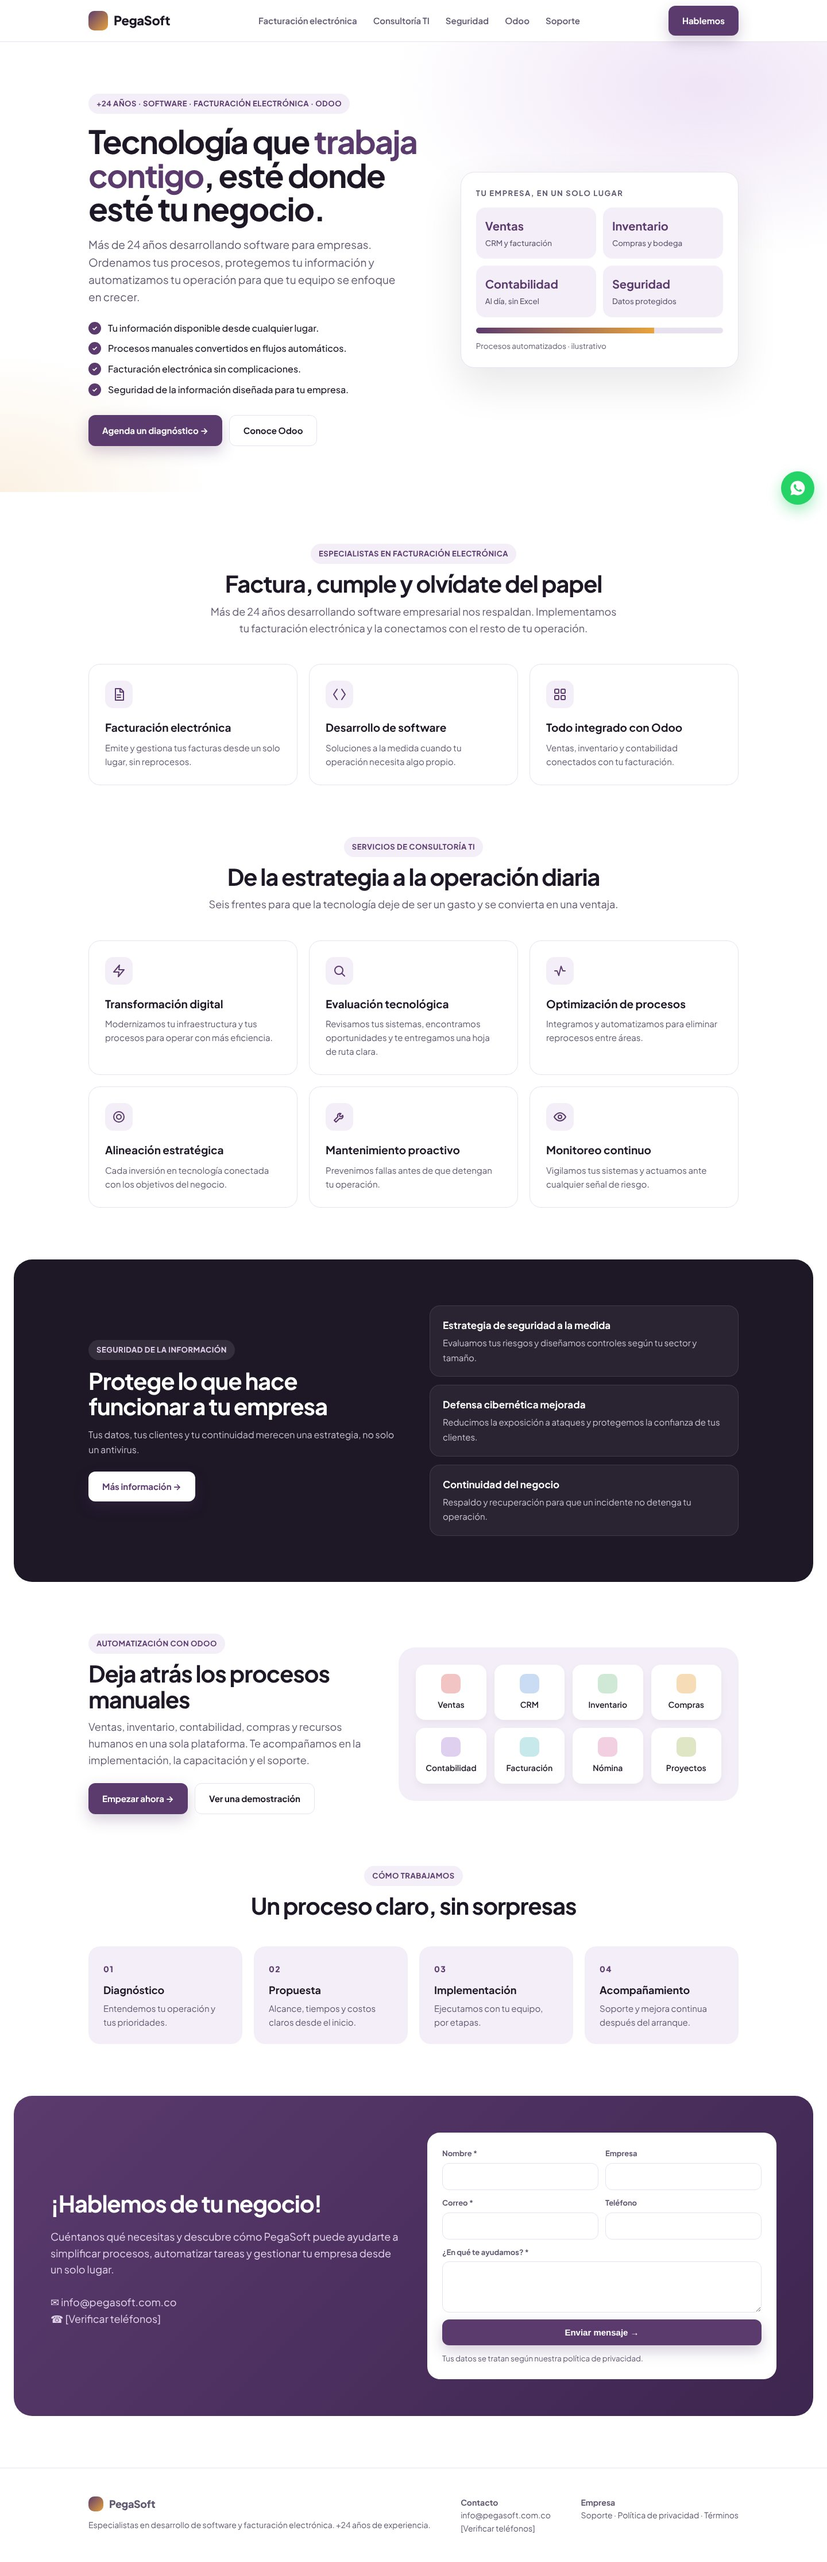
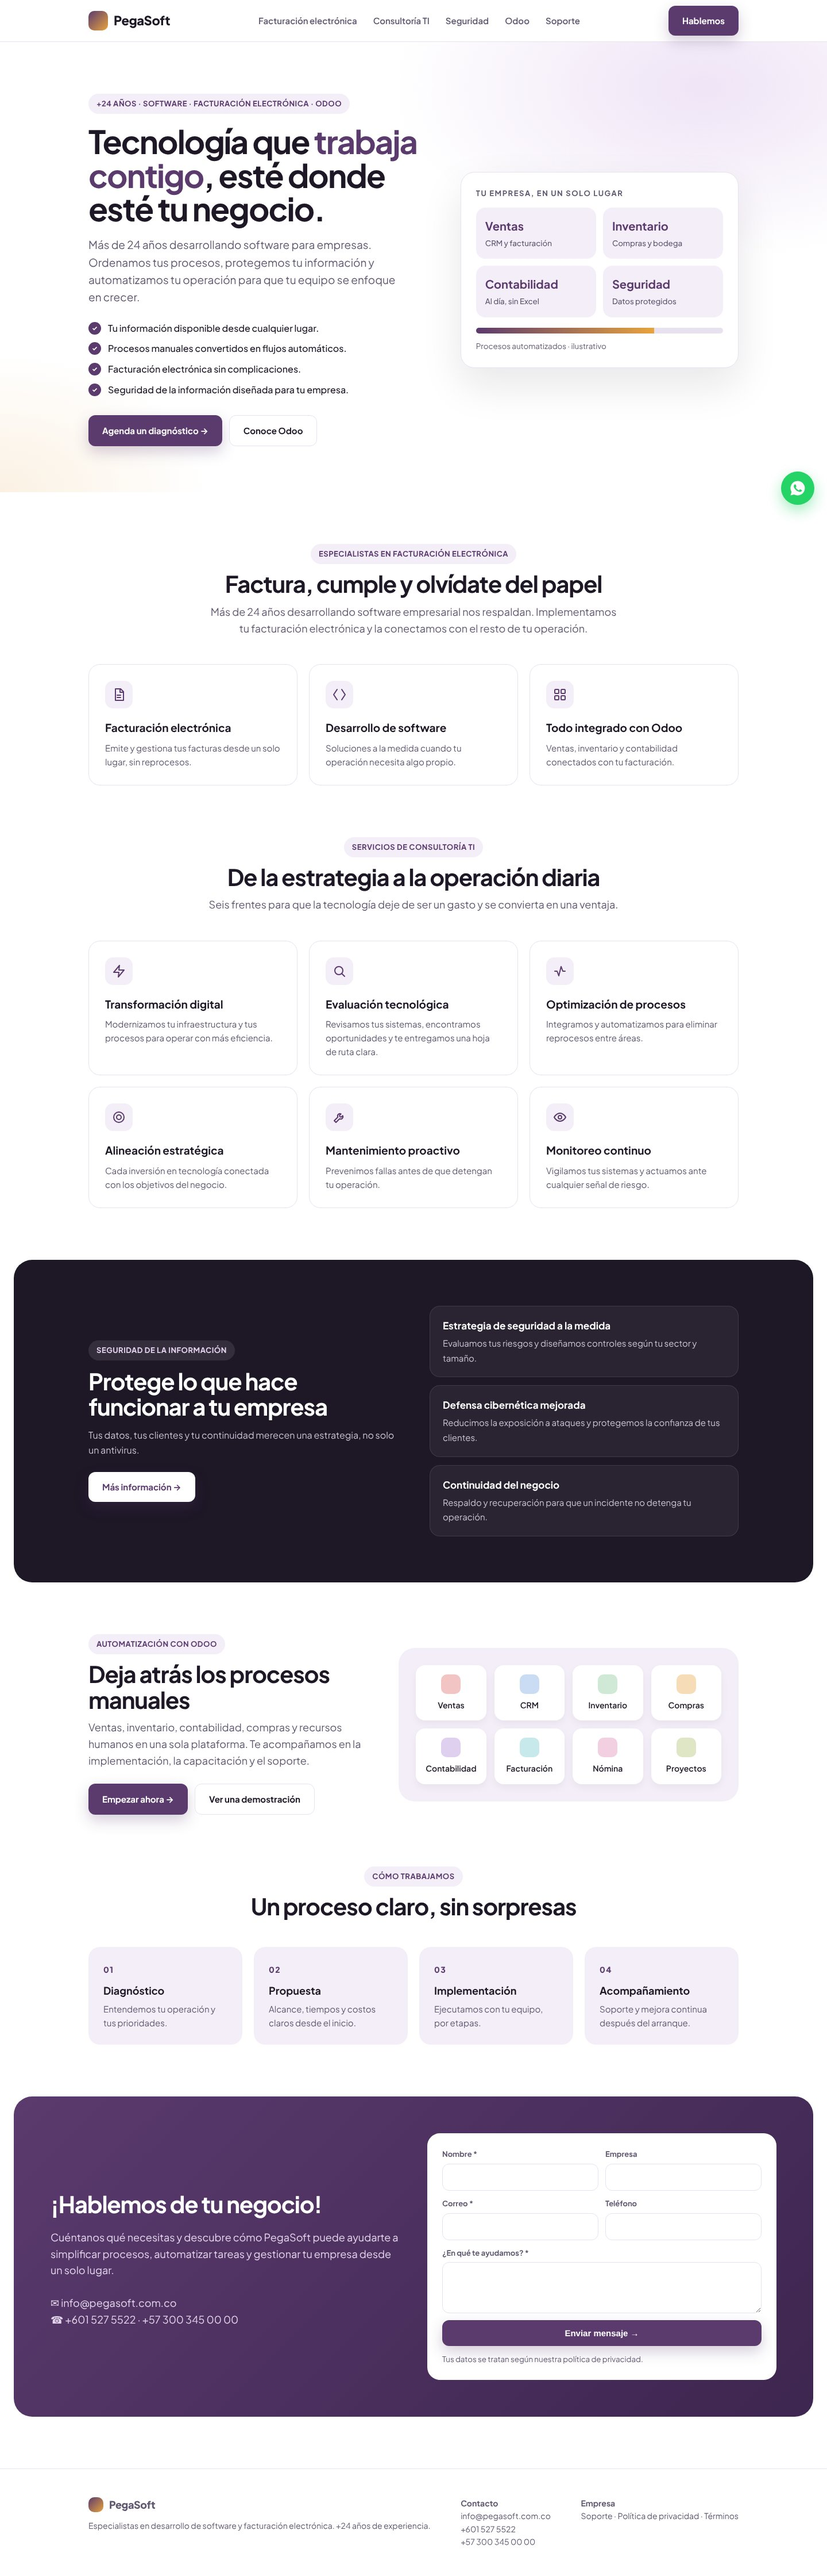
PegaSoft: teléfonos reales y enlaces de WhatsApp
Claude-Session: https://claude.ai/code/session_01Aq6dT6XBRFQhVkyXdY5FfA

diff --git a/pegasoft/index.html b/pegasoft/index.html
@@ -130,7 +130,7 @@ footer .wrap{display:flex;justify-content:space-between;gap:24px;flex-wrap:wrap}
 
 <div class="final" id="contacto" style="text-align:left;display:grid;grid-template-columns:1fr 1fr;gap:48px;align-items:center">
 <div><h2>¡Hablemos de tu negocio!</h2><p>Cuéntanos qué necesitas y descubre cómo PegaSoft puede ayudarte a simplificar procesos, automatizar tareas y gestionar tu empresa desde un solo lugar.</p>
-<p style="margin:0">✉ info@pegasoft.com.co<br>☎ [Verificar teléfonos]</p></div>
+<p style="margin:0">✉ info@pegasoft.com.co<br>☎ <a href="tel:+576015275522">+601 527 5522</a> · <a href="https://wa.me/573003450000">+57 300 345 00 00</a></p></div>
 <form style="background:#fff;border-radius:22px;padding:26px;display:grid;gap:12px;color:var(--ink)" onsubmit="return false">
 <style>.f{display:grid;gap:6px;font-size:13px;font-weight:700;color:var(--mut)}.f input,.f textarea{font:inherit;font-weight:500;color:var(--ink);border:1.5px solid var(--line);border-radius:12px;padding:12px 14px}.f input:focus,.f textarea:focus{outline:none;border-color:var(--p)}.two{display:grid;grid-template-columns:1fr 1fr;gap:12px}</style>
 <div class="two"><label class="f">Nombre *<input required></label><label class="f">Empresa<input></label></div>
@@ -140,6 +140,6 @@ footer .wrap{display:flex;justify-content:space-between;gap:24px;flex-wrap:wrap}
 <small style="color:var(--mut)">Tus datos se tratan según nuestra política de privacidad.</small></form></div>
 
 <footer id="soporte"><div class="wrap"><div><b class="logo" style="font-size:18px"><i style="width:26px;height:26px"></i>PegaSoft</b><p style="margin-top:10px">Especialistas en desarrollo de software y facturación electrónica. +24 años de experiencia.</p></div>
-<div><b>Contacto</b><p>info@pegasoft.com.co<br>[Verificar teléfonos]</p></div><div><b>Empresa</b><p>Soporte · Política de privacidad · Términos</p></div></div></footer>
-<a class="wa" href="#" aria-label="WhatsApp"><svg viewBox="0 0 24 24"><path d="M12 2a10 10 0 0 0-8.6 15.1L2 22l5-1.3A10 10 0 1 0 12 2zm5.4 13.9c-.2.6-1.3 1.2-1.8 1.2-.5.1-1 .2-3.3-.7-2.8-1.1-4.5-4-4.7-4.2-.1-.2-1.1-1.5-1.1-2.9s.7-2 1-2.3c.2-.3.5-.3.7-.3h.5c.2 0 .4 0 .6.5l.8 2c.1.2.1.4 0 .5l-.4.6-.3.4c-.1.1-.3.3-.1.6.2.3.8 1.3 1.7 2.1 1.2 1 2.1 1.4 2.4 1.5.3.1.5.1.6-.1l.9-1.1c.2-.3.4-.2.6-.1l1.9.9c.3.1.5.2.5.3.1.2.1.8-.1 1.3z"/></svg></a>
+<div><b>Contacto</b><p><a href="mailto:info@pegasoft.com.co">info@pegasoft.com.co</a><br><a href="tel:+576015275522">+601 527 5522</a><br><a href="https://wa.me/573003450000">+57 300 345 00 00</a></p></div><div><b>Empresa</b><p>Soporte · Política de privacidad · Términos</p></div></div></footer>
+<a class="wa" href="https://wa.me/573003450000" target="_blank" rel="noopener" aria-label="WhatsApp"><svg viewBox="0 0 24 24"><path d="M12 2a10 10 0 0 0-8.6 15.1L2 22l5-1.3A10 10 0 1 0 12 2zm5.4 13.9c-.2.6-1.3 1.2-1.8 1.2-.5.1-1 .2-3.3-.7-2.8-1.1-4.5-4-4.7-4.2-.1-.2-1.1-1.5-1.1-2.9s.7-2 1-2.3c.2-.3.5-.3.7-.3h.5c.2 0 .4 0 .6.5l.8 2c.1.2.1.4 0 .5l-.4.6-.3.4c-.1.1-.3.3-.1.6.2.3.8 1.3 1.7 2.1 1.2 1 2.1 1.4 2.4 1.5.3.1.5.1.6-.1l.9-1.1c.2-.3.4-.2.6-.1l1.9.9c.3.1.5.2.5.3.1.2.1.8-.1 1.3z"/></svg></a>
 </body></html>

diff --git a/README.md b/README.md
@@ -5,4 +5,4 @@ Maqueta HTML de la página de inicio de pegasoft.com.co (propuesta, no publicada
 - `pegasoft/index.html`: página completa (abrir en el navegador).
 - `pegasoft/vista-escritorio.jpg` y `pegasoft/vista-celular.jpg`: vistas previas.
 
-Pendiente: verificar teléfonos y logo oficial.
+Pendiente: logo oficial.
